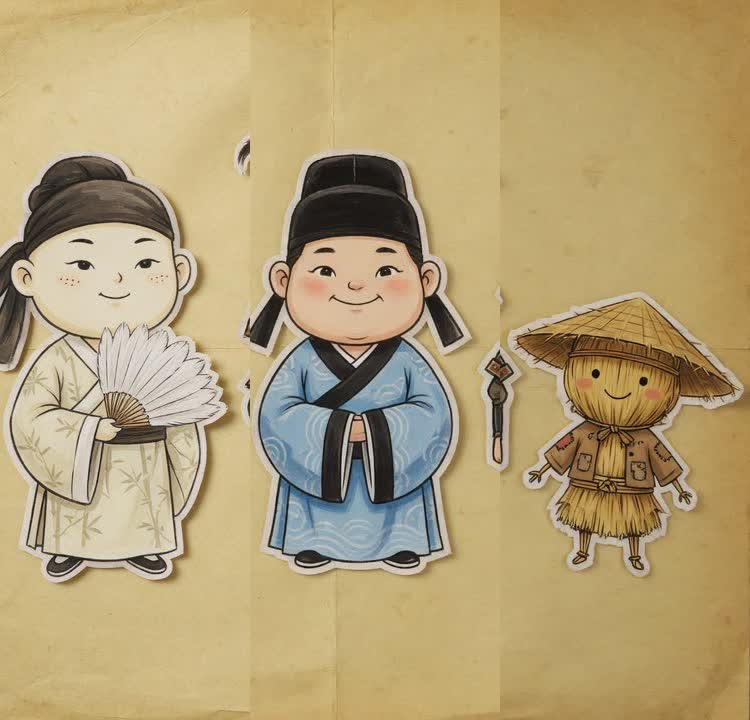
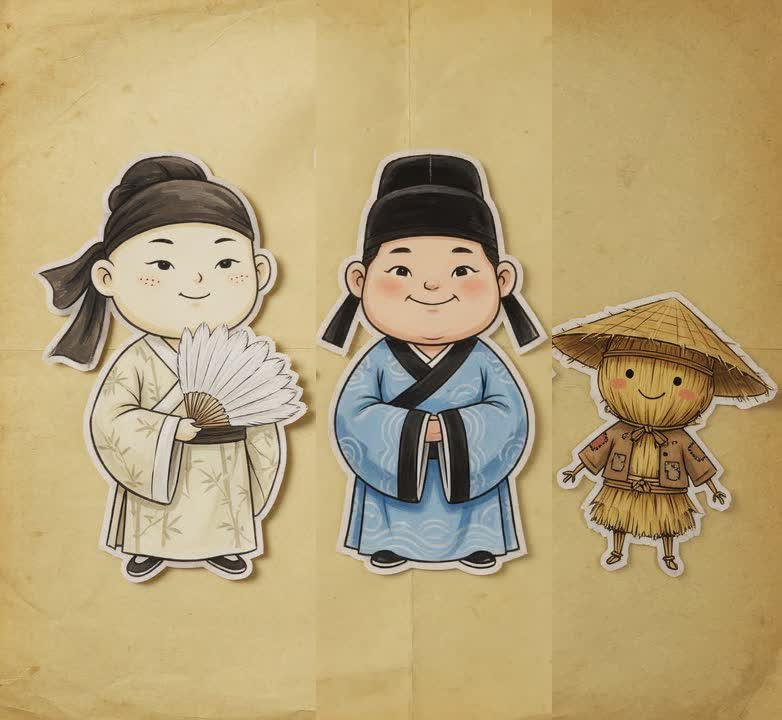
草船借箭：角色裁切位置改為實測，修正每張小表都夾帶鄰居碎片
回饋指出 c8 稻草兵不照設定。檢查實際餵給模型的 sheet_c8.jpg 後
發現裁切位置全是猜的：諸葛亮那格右緣卡進周瑜的黑色頭纓，
周瑜卡進魯肅，魯肅卡進曹操，且諸葛亮左側被切掉。
每一張場景小表都被汙染，角色自然會漂。

改為從 ref_cast.jpg 的欄暗度分布實測邊界，以間隙中點切分：
zhuge 0-317、zhouyu 317-551、lusu 551-788、caocao 788-1049、
straw 1049-1280；曹操與稻草兵相連處取最稀疏欄 x=1049 分開。
story 以 cast_bounds 取代猜測的 cast_slots，pipeline 同步改寫
並註明「裁切若切到人或夾到鄰居，會毒害所有由它產生的小表」。

九張小表已重建，跨頁需全數重生。

Claude-Session: https://claude.ai/code/session_01E2EvYhvVwxfQyL2Fn8VYz4

diff --git a/scripts/arrows_pipeline.py b/scripts/arrows_pipeline.py
@@ -114,14 +114,17 @@ def stage_sheets(story: dict, ids: set[str], dry: bool, force: bool) -> bool:
     src = ASSETS / story["refs"]["cast"]["file"]
     if not src.exists():
         print("missing", src.name); return False
-    w = story["cast_slot_width"]
-    for slot, x in story["cast_slots"].items():
+    # Bounds were MEASURED off the sheet (column ink profile), not guessed: a crop
+    # that clips one figure or catches a sliver of the next poisons every scene
+    # sheet built from it.
+    for slot, (x0, x1) in story["cast_bounds"].items():
         out = cast_dir / f"{slot}.jpg"
         if out.exists() and not force:
             continue
         if dry:
-            print(f"  DRY crop {slot} x={x}"); continue
-        subprocess.run(["ffmpeg", "-v", "error", "-y", "-i", str(src), "-vf", f"crop={w}:720:{x}:0", str(out)], check=True)
+            print(f"  DRY crop {slot} {x0}..{x1}"); continue
+        subprocess.run(["ffmpeg", "-v", "error", "-y", "-i", str(src),
+                        "-vf", f"crop={x1 - x0}:720:{x0}:0", str(out)], check=True)
     for uid, u in units(story, ids):
         out = ASSETS / u["sheet"]
         parts = [cast_dir / f"{s}.jpg" for s in u["cast_list"]]
